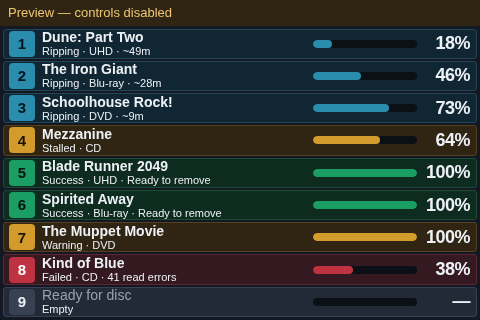
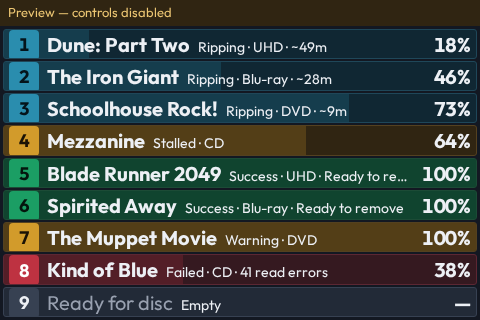
Make each kiosk row one line whose background is its progress, in the fleet sans (#61)
On the 480×320 panel the two-line rows (14px title, 11px meta) beside a 104px
bar in a 33px row could not be read from the workbench — 1px is 0.156mm on
that glass. Each row is now one line: the solid chip (30px), the rip name at
20px with `status · type · ETA` at 14px after it on the same baseline, and the
percentage at 20px. There is no bar column: the Charcuterie ProgressBar stays
in the row (its role, name and value are what a screen reader and the tests
read) but is laid over the whole row as a translucent wash of the row's
intent colour behind the text. When the line overflows, the meta gives way
before the name. It is last in the DOM so the row's text still starts with
the bay number.

The kiosk also drops `font-family: Arial` for `var(--font-sans)`; the app
already loads Outfit through `@charcuterie/tokens/fonts.css` and the kiosk was
the one surface that opted out.

Owner chose R2's formatting with R3's fill from three candidates served at
true size (docs/previews/2026-09-10-rip-deck-kiosk-rows.html). Decisions:
a kiosk row is one line and its background is the progress (supersedes the
2026-09-08 bar column and two-line row; the tint, chip and headline stand);
the kiosk uses the fleet sans, not Arial. Previews regenerated from the
`showcase` and `nine-rips` fixtures.

diff --git a/docs/previews/2026-09-10-rip-deck-kiosk-rows.html b/docs/previews/2026-09-10-rip-deck-kiosk-rows.html
@@ -1,0 +1,48 @@
+<!doctype html><meta charset="utf-8"><title>Rip Deck kiosk at 480x320</title>
+<style>
+:root{--bg:#131822;--fg:#eef1f7;--dim:#9aa3b5}
+body{margin:0;background:#000;font-family:Arial,sans-serif;color:var(--fg)}
+.panel{width:480px;height:320px;overflow:hidden;background:var(--bg);box-sizing:border-box;padding:3px;display:grid;grid-template-rows:repeat(9,minmax(0,1fr));gap:2px}
+.row{display:grid;align-items:center;border-radius:3px;padding:0 6px 0 5px;min-height:0;position:relative;overflow:hidden}
+.row.info{background:#1d2c4a;color:#9cc3ff}.row.success{background:#163524;color:#8fe0a8}.row.warning{background:#3b2f14;color:#f2c76a}.row.danger{background:#3d1a1f;color:#ff9aa4}.row.neutral{background:#1c2230;color:var(--dim)}
+.chip{display:inline-flex;align-items:center;justify-content:center;border-radius:4px;font-weight:bold;font-variant-numeric:tabular-nums;color:#0b0e14}
+.info .chip{background:#4f8ff7}.success .chip{background:#3ec26f}.warning .chip{background:#f0b444}.danger .chip{background:#f05a68}.neutral .chip{background:#5b6578}
+.t{font-weight:bold;color:var(--fg);white-space:nowrap;overflow:hidden;text-overflow:ellipsis;min-width:0}
+.m{white-space:nowrap;overflow:hidden;text-overflow:ellipsis;min-width:0}
+.bar{height:8px;border-radius:4px;background:#0009;position:relative}.bar i{position:absolute;left:0;top:0;bottom:0;border-radius:4px;background:currentColor}
+.pct{font-weight:bold;text-align:right;font-variant-numeric:tabular-nums;color:var(--fg)}
+.neutral .t{color:var(--dim);font-weight:normal}
+
+/* R1: same shape, narrow bar, bigger type (title 17 / meta 12) */
+#r1 .row{grid-template-columns:28px minmax(0,1fr) 56px 50px;gap:7px}
+#r1 .chip{width:28px;height:28px;font-size:16px}#r1 .desc{display:flex;flex-direction:column;min-width:0}
+#r1 .t{font-size:17px;line-height:17px}#r1 .m{font-size:12px;line-height:13px}#r1 .pct{font-size:19px}
+
+/* R2: one line per row: title 19 with the meta inline, tiny bar, percent 20 */
+#r2 .row{grid-template-columns:30px minmax(0,1fr) 48px 54px;gap:7px}
+#r2 .chip{width:30px;height:30px;font-size:18px}#r2 .line{display:flex;align-items:baseline;gap:8px;min-width:0}
+#r2 .t{font-size:20px;line-height:22px;flex:0 1 auto}#r2 .m{font-size:14px;flex:0 1 auto}#r2 .pct{font-size:20px}
+
+/* R3: the row IS the bar: progress fills the row background, no bar column, title 20 / meta 14 */
+#r3 .row{grid-template-columns:30px minmax(0,1fr) 62px;gap:8px}
+#r3 .chip{width:30px;height:30px;font-size:18px;position:relative;z-index:1}
+#r3 .fill{position:absolute;left:0;top:0;bottom:0;background:currentColor;opacity:.22}
+#r3 .desc{display:flex;flex-direction:column;min-width:0;position:relative;z-index:1}
+#r3 .t{font-size:19px;line-height:19px}#r3 .m{font-size:13px;line-height:13px}#r3 .pct{font-size:21px;position:relative;z-index:1}
+</style>
+<script>
+const rows=[
+ ['info','1','Blade Runner','Ripping · 4K · 1h 12m',58],
+ ['info','2','The Matrix','Ripping · Blu-ray · 24m',81],
+ ['warning','3','Akira','Slow read · Blu-ray · 2h 40m',12],
+ ['success','4','Spirited Away','Done · Blu-ray',100],
+ ['success','5','Chungking Express','Done, 3 warnings · DVD',100],
+ ['danger','6','Ghost in the Shell','Failed · UHD',37],
+ ['neutral','7','Empty','',0],
+ ['info','8','Abbey Road','Ripping · CD · 4m',66],
+ ['info','9','Police Story','Ripping · Blu-ray · 51m',43]];
+const pct=r=>r[0]==='neutral'?'—':r[4]+'%';
+document.write(`<div class="panel" id="r1">${rows.map(r=>`<div class="row ${r[0]}"><span class="chip">${r[1]}</span><span class="desc"><span class="t">${r[2]}</span><span class="m">${r[3]}</span></span><div class="bar"><i style="width:${r[4]}%"></i></div><span class="pct">${pct(r)}</span></div>`).join('')}</div>`);
+document.write(`<div class="panel" id="r2">${rows.map(r=>`<div class="row ${r[0]}"><span class="chip">${r[1]}</span><span class="line"><span class="t">${r[2]}</span><span class="m">${r[3]}</span></span><div class="bar"><i style="width:${r[4]}%"></i></div><span class="pct">${pct(r)}</span></div>`).join('')}</div>`);
+document.write(`<div class="panel" id="r3">${rows.map(r=>`<div class="row ${r[0]}"><i class="fill" style="width:${r[4]}%"></i><span class="chip">${r[1]}</span><span class="desc"><span class="t">${r[2]}</span><span class="m">${r[3]}</span></span><span class="pct">${pct(r)}</span></div>`).join('')}</div>`);
+</script>

diff --git a/packages/web/src/styles/tailwind.css b/packages/web/src/styles/tailwind.css
@@ -134,7 +134,10 @@ body {
   flex-direction: column;
   background: var(--color-surface-base);
   color: var(--color-content-primary);
-  font-family: Arial, sans-serif;
+  /* The fleet's sans, not Arial: the app already loads Outfit through
+     `@charcuterie/tokens/fonts.css`, and the kiosk was the one surface
+     that opted out of it. */
+  font-family: var(--font-sans);
 }
 .rip-kiosk-status {
   padding: 3px 8px;
@@ -152,8 +155,8 @@ body {
 }
 .rip-kiosk .rip-kiosk-row {
   display: grid;
-  grid-template-columns: 26px minmax(0, 1fr) 104px 46px;
-  gap: 7px;
+  grid-template-columns: 30px minmax(0, 1fr) 54px;
+  gap: 8px;
   align-items: center;
   justify-content: normal;
   padding: 0 6px 0 5px;
@@ -164,37 +167,68 @@ body {
   font-weight: normal;
   color: var(--color-content-primary);
   touch-action: manipulation;
+  /* The row is its own progress bar (below), so the fill needs a box to
+     be absolute against and an edge to be clipped at. */
+  position: relative;
+  overflow: hidden;
+}
+/* The progress bar IS the row. On 480×320 a 104px bar column cost the
+   text a quarter of the row, and a row is already a coloured block —
+   so the Charcuterie ProgressBar stays (its role and name are what
+   a screen reader and the tests read) but it is laid over the whole
+   row as a translucent wash of the row's intent colour, behind the
+   text. Everything readable sits above it. */
+.rip-kiosk .rip-kiosk-fill {
+  position: absolute;
+  inset: 0;
+  z-index: 0;
+  gap: 0;
+  pointer-events: none;
+}
+.rip-kiosk .rip-kiosk-fill [role="progressbar"] {
+  block-size: 100%;
+  border-radius: 0;
+  background: transparent;
+}
+.rip-kiosk .rip-kiosk-fill [role="progressbar"] > span {
+  border-radius: 0;
+  opacity: 0.22;
 }
 /* The number chip: a solid Badge in the row's intent colour, sized
    for a thumb on a 480×320 panel rather than for a caption. */
 .rip-kiosk .rip-kiosk-number {
-  inline-size: 26px;
-  block-size: 26px;
+  inline-size: 30px;
+  block-size: 30px;
   padding: 0;
   justify-content: center;
   border-radius: 4px;
-  font-size: 15px;
+  font-size: 18px;
   font-weight: bold;
   font-variant-numeric: tabular-nums;
 }
 .rip-kiosk-percent {
-  font-size: 18px;
+  font-size: 20px;
   font-weight: bold;
   text-align: end;
   letter-spacing: -0.5px;
   font-variant-numeric: tabular-nums;
   color: var(--color-content-primary);
 }
-.rip-kiosk-description {
+/* One line per row: the rip name, then `status · type · ETA` after it
+   on the same baseline. A 33px row cannot hold two lines anyone can
+   read from the workbench, so the second line was folded into the
+   first. When the line overflows, the meta gives way before the name. */
+.rip-kiosk-line {
   display: flex;
-  flex-direction: column;
+  align-items: baseline;
+  gap: 8px;
   min-inline-size: 0;
 }
-/* The rip name is the headline and stays primary; the meta line
-   underneath keeps the intent colour the soft appearance gives it. */
 .rip-kiosk-row .rip-kiosk-title {
-  font-size: 14px;
-  line-height: 15px;
+  flex: 0 1 auto;
+  min-inline-size: 0;
+  font-size: 20px;
+  line-height: 22px;
   font-weight: bold;
   color: var(--color-content-primary);
   overflow: hidden;
@@ -202,8 +236,10 @@ body {
   white-space: nowrap;
 }
 .rip-kiosk-row .rip-kiosk-meta {
-  font-size: 11px;
-  line-height: 12px;
+  flex: 1 1 0;
+  min-inline-size: 0;
+  font-size: 14px;
+  line-height: 16px;
   overflow: hidden;
   text-overflow: ellipsis;
   white-space: nowrap;
@@ -211,6 +247,14 @@ body {
 .rip-kiosk-row[data-empty="true"] .rip-kiosk-title {
   color: var(--color-content-muted);
   font-weight: normal;
+}
+/* Everything readable sits above the fill. Last, so nothing less
+   specific follows it. */
+.rip-kiosk .rip-kiosk-row > .rip-kiosk-number,
+.rip-kiosk .rip-kiosk-row > .rip-kiosk-line,
+.rip-kiosk .rip-kiosk-row > .rip-kiosk-percent {
+  position: relative;
+  z-index: 1;
 }
 .rip-kiosk-off {
   flex: 1;

diff --git a/packages/web/src/components/Kiosk.tsx b/packages/web/src/components/Kiosk.tsx
@@ -273,7 +273,7 @@ export const Kiosk = () => {
                   >
                     {bay.slot ?? "?"}
                   </Badge>
-                  <span className="rip-kiosk-description">
+                  <span className="rip-kiosk-line">
                     <strong className="rip-kiosk-title">
                       {row.title}
                     </strong>
@@ -281,15 +281,20 @@ export const Kiosk = () => {
                       {row.meta}
                     </span>
                   </span>
+                  <strong className="rip-kiosk-percent">
+                    {row.isEmpty ? "—" : `${row.percent}%`}
+                  </strong>
+                  {/* The row is its own bar: the fill washes the whole
+                      row behind the text (see `.rip-kiosk-fill`). Last
+                      in the DOM so the row's text still starts with the
+                      bay number, not the bar's hidden label. */}
                   <ProgressBar
+                    className="rip-kiosk-fill"
                     label={`Slot ${bay.slot ?? "?"} progress`}
                     value={row.percent}
                     intent={row.intent}
                     size="md"
                   />
-                  <strong className="rip-kiosk-percent">
-                    {row.isEmpty ? "—" : `${row.percent}%`}
-                  </strong>
                 </ButtonLink>
               )
             })}

diff --git a/docs/decisions/2026-09-10-a-kiosk-row-is-one-line-and-its-background-is-the-progress.md b/docs/decisions/2026-09-10-a-kiosk-row-is-one-line-and-its-background-is-the-progress.md
@@ -1,0 +1,52 @@
+# A kiosk row is one line, and its background is the progress
+
+- **Status:** Accepted
+- **Date:** 2026-09-10
+- **Type:** Display UI requirement
+- **Supersedes:** [2026-09-08 — a kiosk row is tinted by its state and headlines the rip name](2026-09-08-a-kiosk-row-is-tinted-by-its-state-and-headlines-the-rip-name.md) (the 104 px bar column and the two-line row only; the tint, the solid chip and the rip-name headline stand)
+- **Superseded by:** —
+
+## Decision
+
+Each of the nine kiosk rows is one line: the solid number chip (30 px), then the rip
+name at 20 px bold with `status · type · ETA` at 14 px after it on the same baseline,
+then the percentage at 20 px on the right. There is no bar column. The Charcuterie
+`ProgressBar` stays in the row — it is what a screen reader and the tests read — but
+it is laid over the whole row as a translucent wash of the row's intent colour behind
+the text, so the row *is* the bar. When the line overflows, the meta gives way before
+the name. An empty bay still reads "Empty" in the muted colour with a dash for the
+percentage.
+
+## Context
+
+The 2026-09-08 row held two lines of text (14 px and 11 px) beside a 104 px bar and an
+18 px percentage, in a row 33 px tall. On the physical 480×320 panel, where 1 px is
+0.156 mm, the owner could not read the rows from the workbench and barely up close;
+he asked for narrower bars so the text could grow. Three candidates were served at
+true size on 2026-09-10: R1 (the same shape with a 56 px bar), R2 (one line per row,
+meta inline), R3 (the row background is the bar). The owner chose R2's formatting with
+R3's fill. Candidates: [comparison](../previews/2026-09-10-rip-deck-kiosk-rows.html),
+[R1](../previews/2026-09-10-rip-deck-kiosk-rows-r1.png),
+[R2](../previews/2026-09-10-rip-deck-kiosk-rows-r2.png),
+[R3](../previews/2026-09-10-rip-deck-kiosk-rows-r3.png); result:
+[nine rows](../previews/kiosk-showcase.png).
+
+## Why
+
+- **One line is the only way to 20 px type in a 33 px row.** Nine rows in 320 px leave
+  no room for two readable lines.
+- **The bar column was a quarter of the row.** Folding the progress into the row's
+  own background gives that width back to the name and keeps the fill readable from
+  a distance: a row that is 58% washed says 58% before the number does.
+- **The shape is still Charcuterie's.** No app-local progress element was drawn; the
+  fleet's `ProgressBar` is positioned by the kiosk's CSS, and its role, name and value
+  are unchanged. No other owned app has a row-as-bar shape (fleet survey, 2026-09-10),
+  so nothing was moved into the library.
+
+## Evidence
+
+- Owner, 2026-09-10: "We might wanna rethink the Rip-Deck view again too. It has the
+  same issue. Maybe we make the progress bars not as wide, and then that gives us more
+  space for text to be larger." Then: "R2 formatting with R3's full-bar progress
+  indicator."
+- T3 Code chat `0adde1d5-e233-4c59-bf0f-4fed81fba6d7`.

diff --git a/docs/kiosk.md b/docs/kiosk.md
@@ -1,6 +1,6 @@
 # Tower kiosk
 
-`/kiosk` is Rip Deck's dedicated 480×320 view. It shows every configured slot in physical order without an app title or a scrolling card grid. Each row is washed in its state's intent colour (info while ripping, success when ready to remove, warning for a slow read or a bay that needs attention, danger for a failure or quarantine, neutral when empty), carries the bay number as a solid chip — never the word "Slot" — and headlines the rip name over a `status · type · ETA` line, with a short progress bar and the percentage at the right edge. When no drive answers the daemon's probe (`is_tower_present` false, the daemon's definition of the tower being off) the rows give way to a single "Tower is off" panel, so a switched-off tower does not look like a dead display. A row opens `/kiosk/slots/<drive-id>` with the same chip and title as its heading, the current disc's artwork (when available), type, progress, ETA, outcome, and Open / Close / Disc removed / Back controls.
+`/kiosk` is Rip Deck's dedicated 480×320 view. It shows every configured slot in physical order without an app title or a scrolling card grid. Each row is washed in its state's intent colour (info while ripping, success when ready to remove, warning for a slow read or a bay that needs attention, danger for a failure or quarantine, neutral when empty), carries the bay number as a solid chip — never the word "Slot" — and is one line: the rip name at 20 px with `status · type · ETA` after it on the same baseline, and the percentage at the right edge. There is no bar column: the row's own background is the progress, a translucent wash of its intent colour that grows from the left ([decision](decisions/2026-09-10-a-kiosk-row-is-one-line-and-its-background-is-the-progress.md)). The kiosk renders in the fleet's Outfit, like the rest of the app. When no drive answers the daemon's probe (`is_tower_present` false, the daemon's definition of the tower being off) the rows give way to a single "Tower is off" panel, so a switched-off tower does not look like a dead display. A row opens `/kiosk/slots/<drive-id>` with the same chip and title as its heading, the current disc's artwork (when available), type, progress, ETA, outcome, and Open / Close / Disc removed / Back controls.
 
 The colour treatment was chosen from three served candidates ([comparison](previews/2026-09-08-rip-deck-kiosk-colour.html), [render](previews/2026-09-08-rip-deck-kiosk-colour.png)); see the [decision](decisions/2026-09-08-a-kiosk-row-is-tinted-by-its-state-and-headlines-the-rip-name.md).
 

diff --git a/docs/decisions/2026-09-10-the-kiosk-uses-the-fleet-sans-not-arial.md b/docs/decisions/2026-09-10-the-kiosk-uses-the-fleet-sans-not-arial.md
@@ -1,0 +1,32 @@
+# The kiosk uses the fleet sans, not Arial
+
+- **Status:** Accepted
+- **Date:** 2026-09-10
+- **Type:** Typography
+- **Supersedes:** —
+- **Superseded by:** —
+
+## Decision
+
+`.rip-kiosk` sets `font-family: var(--font-sans)` (Outfit, from
+`@charcuterie/tokens/fonts.css`, which the app already imports). It does not set
+Arial.
+
+## Context
+
+The kiosk landed on 2026-09-08 with `font-family: Arial, sans-serif` and no recorded
+reason, while the rest of the app renders in the fleet's Outfit. The owner asked on
+2026-09-10 whether the screen views used the Charcuterie fonts. The dashboard did;
+the kiosk did not.
+
+## Why
+
+- **One typeface across the fleet**, and the face the 2026-09-10 row candidates were
+  judged in.
+- **The faces are already loaded.** The app imports the fonts stylesheet; opting the
+  kiosk out saved nothing.
+
+## Evidence
+
+- Owner, 2026-09-10: "Btw, are we using Charcuterie fonts on these screen views?"
+- T3 Code chat `0adde1d5-e233-4c59-bf0f-4fed81fba6d7`.

diff --git a/docs/decisions/README.md b/docs/decisions/README.md
@@ -9,6 +9,8 @@ default instinct.
 
 | Date | Decision |
 | --- | --- |
+| 2026-09-10 | [A kiosk row is one line, and its background is the progress](2026-09-10-a-kiosk-row-is-one-line-and-its-background-is-the-progress.md) |
+| 2026-09-10 | [The kiosk uses the fleet sans, not Arial](2026-09-10-the-kiosk-uses-the-fleet-sans-not-arial.md) |
 | 2026-09-08 | [A kiosk row is tinted by its state and headlines the rip name](2026-09-08-a-kiosk-row-is-tinted-by-its-state-and-headlines-the-rip-name.md) |
 | 2026-09-08 | [A bay is labelled by its number alone, never the word "Slot"](2026-09-08-a-bay-is-labelled-by-its-number-alone-never-the-word-slot.md) |
 | 2026-09-08 | [The kiosk and its CastKit metadata belong to Rip Deck](2026-09-08-kiosk-and-castkit-metadata-belong-to-rip-deck.md) |

diff --git a/docs/decisions/2026-09-08-a-kiosk-row-is-tinted-by-its-state-and-headlines-the-rip-name.md b/docs/decisions/2026-09-08-a-kiosk-row-is-tinted-by-its-state-and-headlines-the-rip-name.md
@@ -4,7 +4,7 @@
 - **Date:** 2026-09-08
 - **Type:** Display UI requirement
 - **Supersedes:** —
-- **Superseded by:** —
+- **Superseded by:** [2026-09-10 — a kiosk row is one line, and its background is the progress](2026-09-10-a-kiosk-row-is-one-line-and-its-background-is-the-progress.md) (the bar column and the two-line row only)
 
 ## Decision
 
